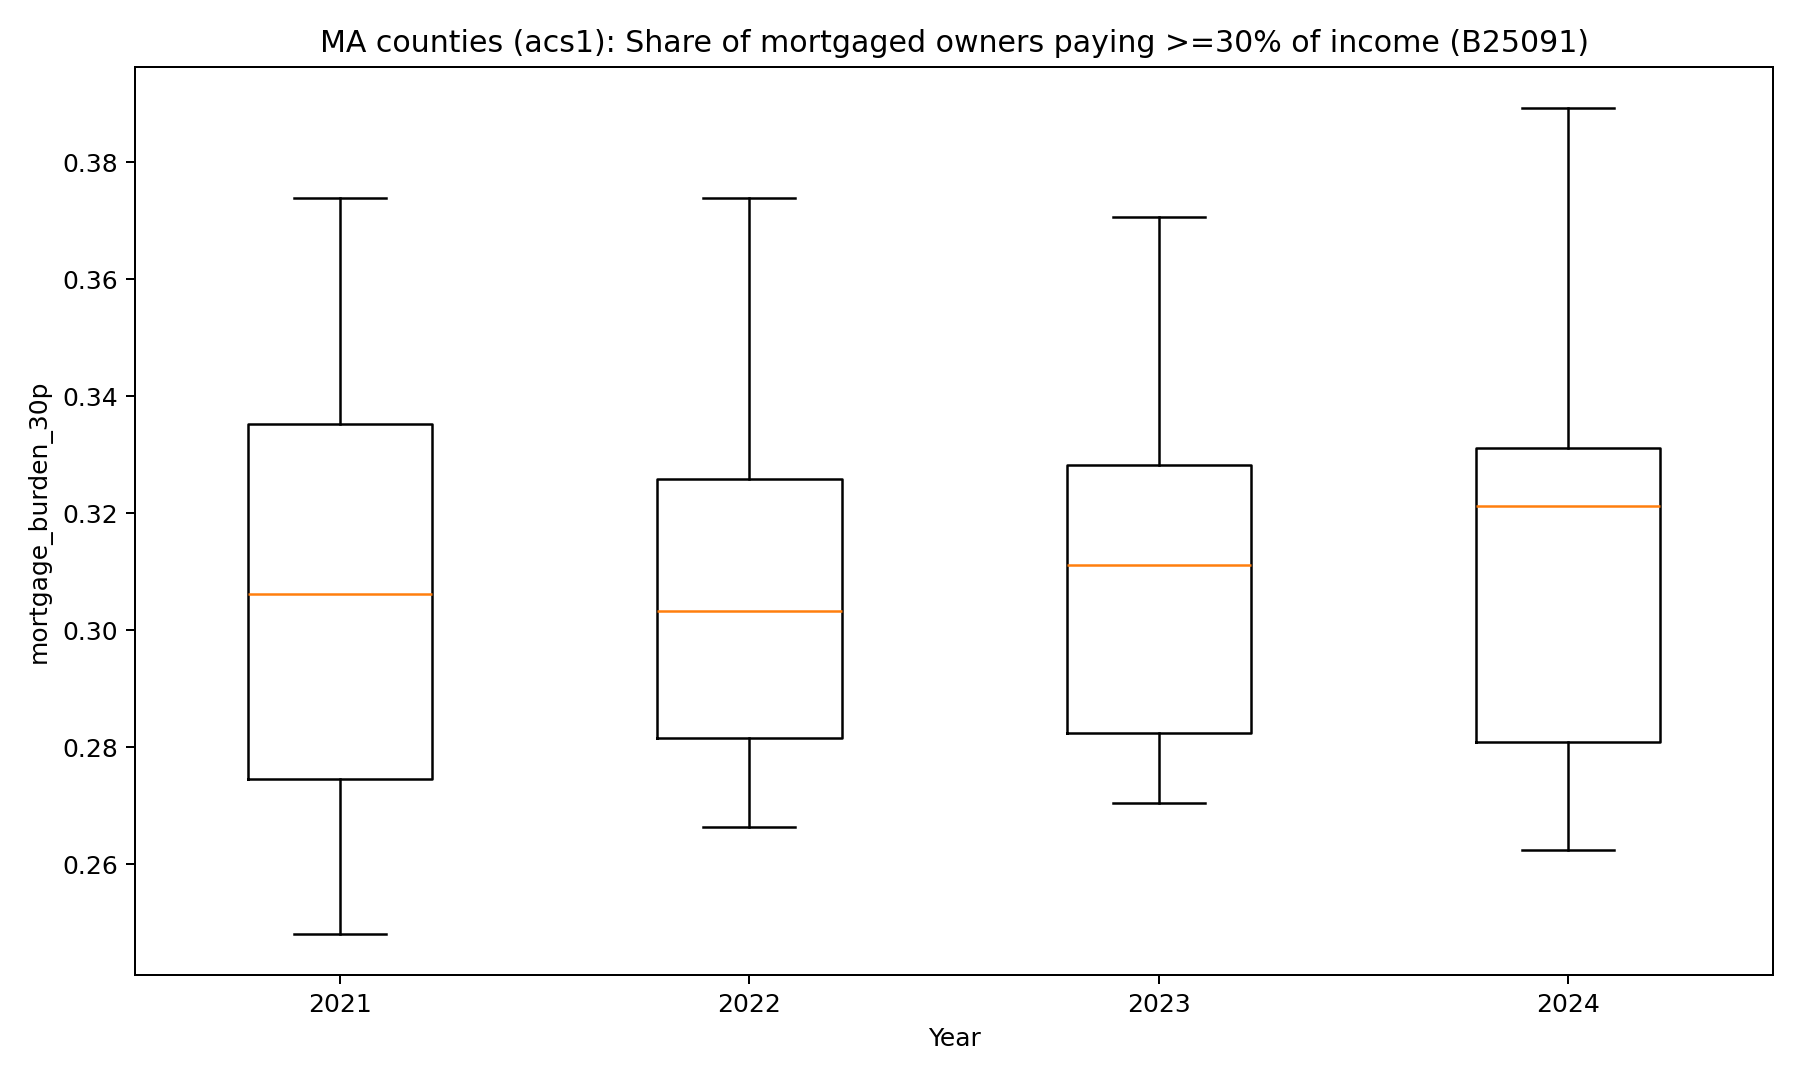
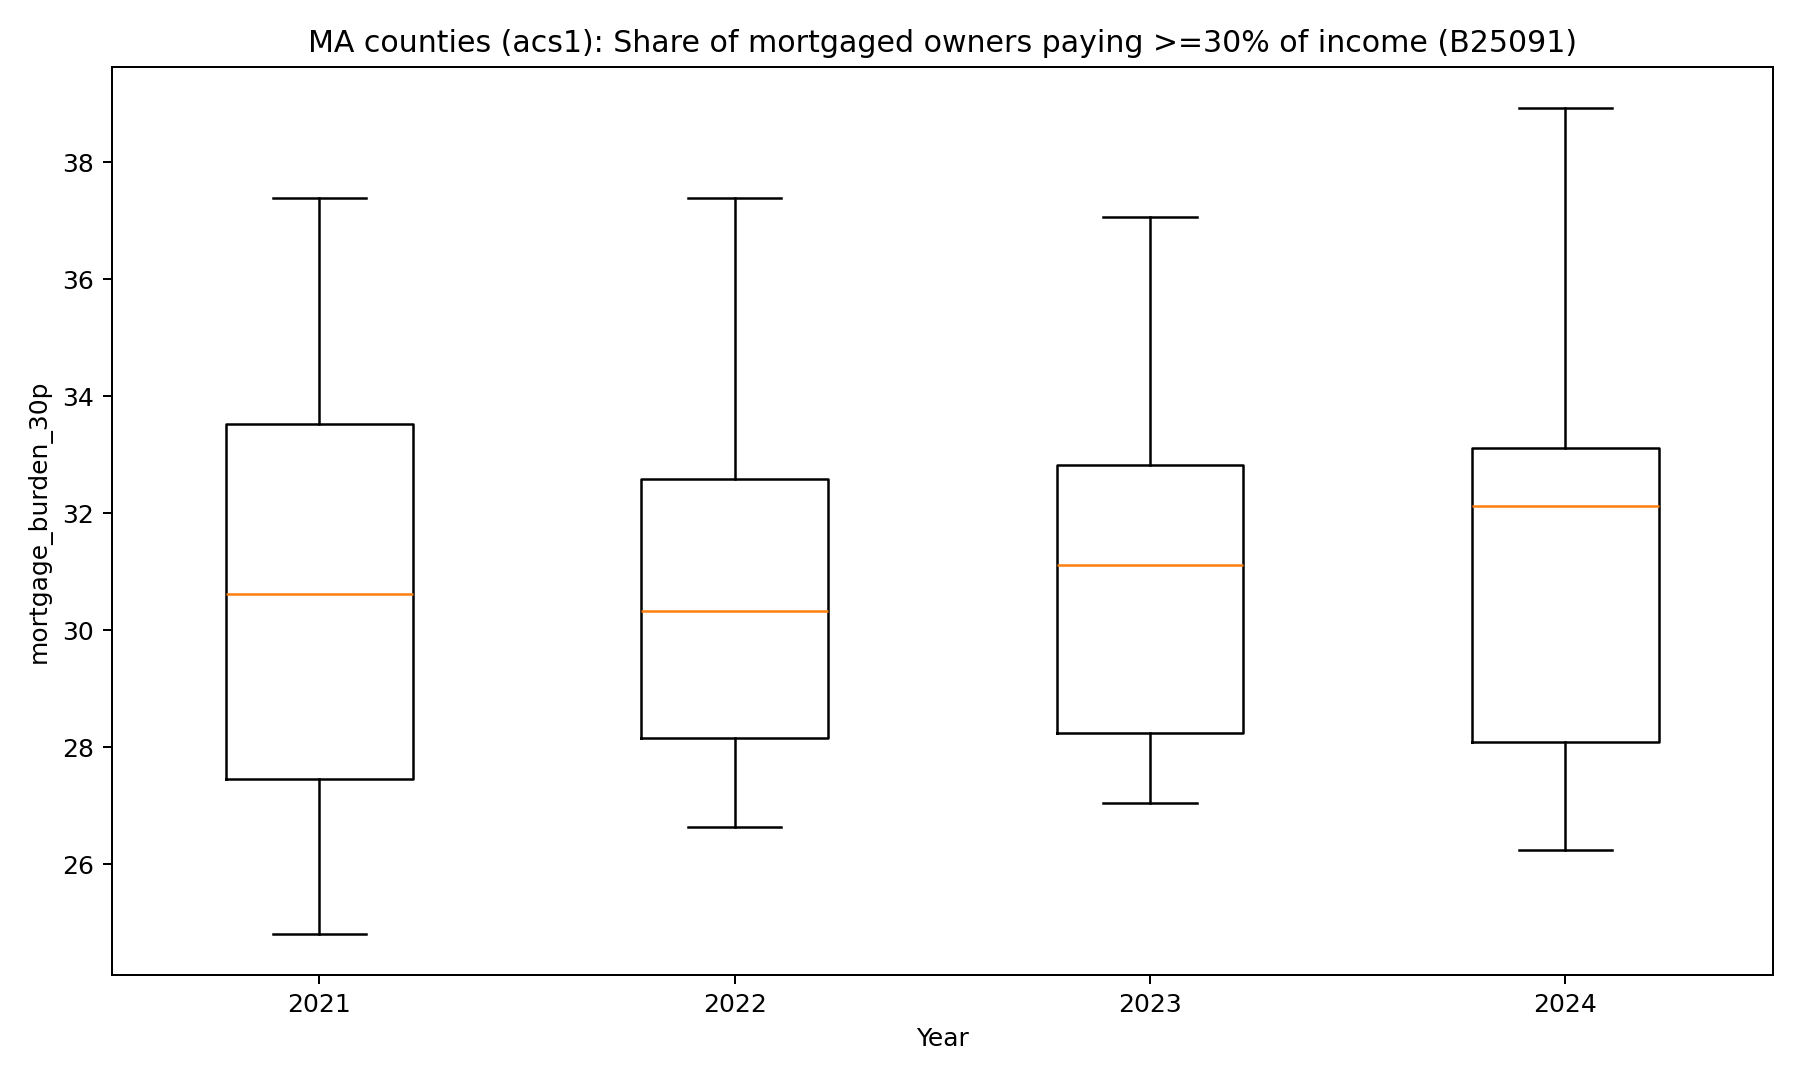
update about graphing label

diff --git a/src/make_price_income_demo.py b/src/make_price_income_demo.py
@@ -172,6 +172,8 @@ def main() -> int:
     }
 
     xs, ys, cs = [], [], []
+    from collections import defaultdict
+    by_county = defaultdict(list)
     for r in rows:
         if r.rent_pressure is None or r.poverty_rate is None:
             continue
@@ -180,8 +182,15 @@ def main() -> int:
         xs.append(r.rent_pressure)
         ys.append(r.poverty_rate)
         cs.append(colors.get(cat, "#cccccc"))
+        by_county[r.geoid].append(r)
 
     plt.figure(figsize=(10, 6))
+    for geoid, c_rows in by_county.items():
+        c_rows.sort(key=lambda x: x.year)
+        c_xs = [x.rent_pressure for x in c_rows]
+        c_ys = [x.poverty_rate for x in c_rows]
+        plt.plot(c_xs, c_ys, color="gray", linewidth=0.5, alpha=0.4)
+
     plt.scatter(xs, ys, c=cs, alpha=0.85, edgecolors="none")
     plt.axhline(pr_cut, color="#444444", linewidth=1.0, linestyle="--")
     plt.axvline(rp_cut, color="#444444", linewidth=1.0, linestyle="--")
@@ -209,6 +218,7 @@ def main() -> int:
 
     # Scatter: owner cost pressure (with mortgage) vs poverty rate.
     xs, ys, cs = [], [], []
+    by_county2 = defaultdict(list)
     for r in rows:
         if r.owner_cost_pressure_with_mortgage is None or r.poverty_rate is None:
             continue
@@ -217,8 +227,15 @@ def main() -> int:
         xs.append(r.owner_cost_pressure_with_mortgage)
         ys.append(r.poverty_rate)
         cs.append(colors.get(cat, "#cccccc"))
+        by_county2[r.geoid].append(r)
 
     plt.figure(figsize=(10, 6))
+    for geoid, c_rows in by_county2.items():
+        c_rows.sort(key=lambda x: x.year)
+        c_xs = [x.owner_cost_pressure_with_mortgage for x in c_rows]
+        c_ys = [x.poverty_rate for x in c_rows]
+        plt.plot(c_xs, c_ys, color="gray", linewidth=0.5, alpha=0.4)
+
     plt.scatter(xs, ys, c=cs, alpha=0.85, edgecolors="none")
     plt.axhline(pr_cut, color="#444444", linewidth=1.0, linestyle="--")
     plt.title("MA counties (ACS1 2021–2024): owner-cost pressure (with mortgage) vs poverty (proxy)")

diff --git a/src/make_affordability_boxplots.py b/src/make_affordability_boxplots.py
@@ -60,7 +60,10 @@ def main() -> int:
         out = []
         for y in years:
             vals = [fnum(r.get(col)) for r in rows if int(r["year"]) == y]
-            out.append([v for v in vals if v is not None])
+            if 'burden' in col:
+                out.append([v * 100.0 for v in vals if v is not None])
+            else:
+                out.append([v for v in vals if v is not None])
         return out
 
     metrics = [
